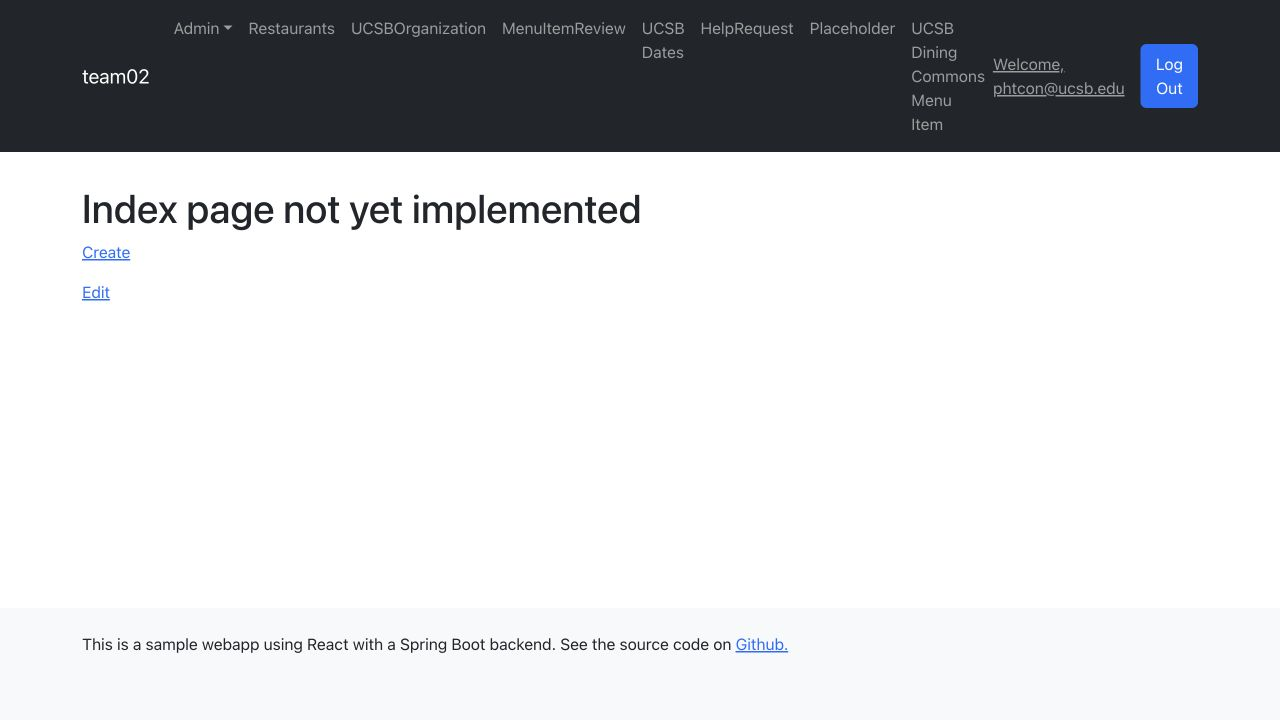
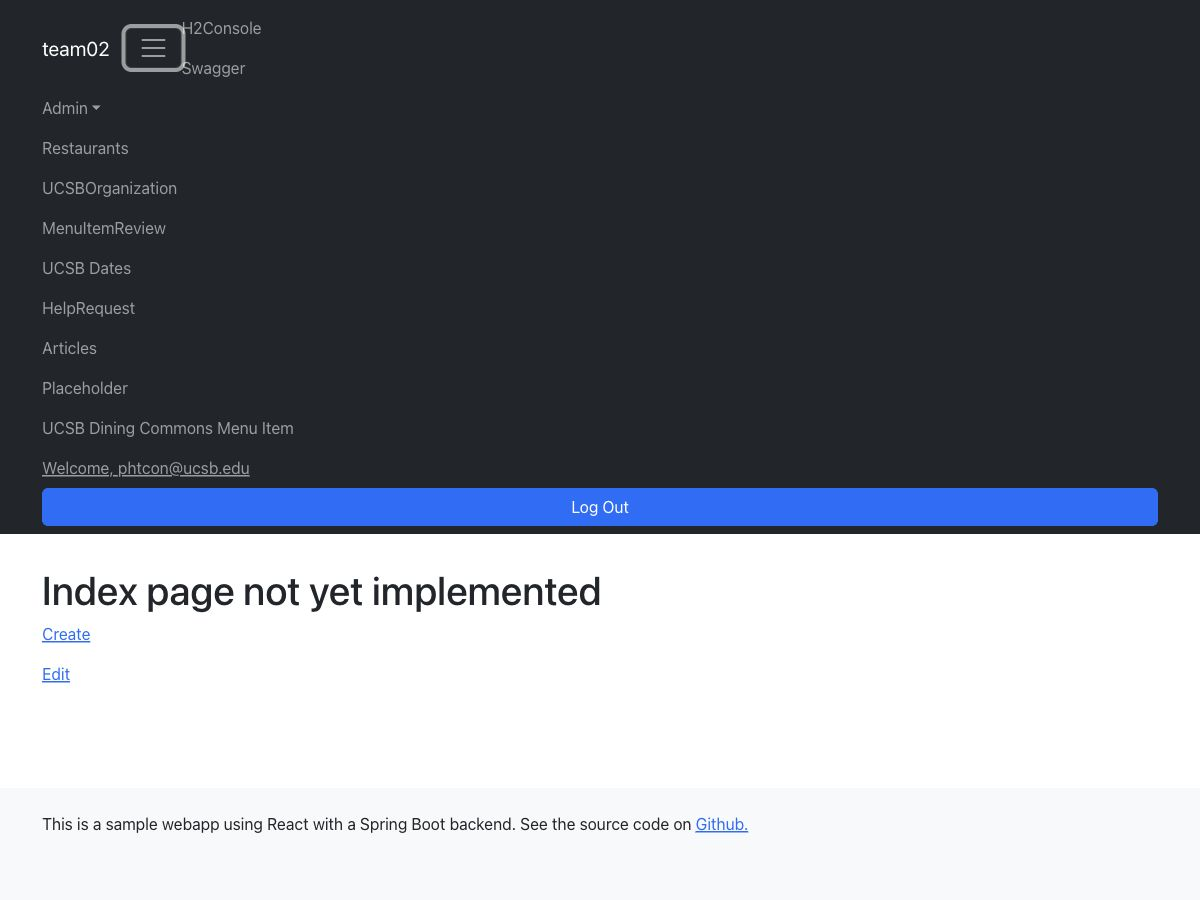
Keep navbar controls visible across screen sizes

diff --git a/frontend/src/main/components/Nav/AppNavbar.jsx b/frontend/src/main/components/Nav/AppNavbar.jsx
@@ -19,7 +19,7 @@ export default function AppNavbar({
       )}
 
       <Navbar
-        expand="xl"
+        expand="xxl"
         variant="dark"
         bg="dark"
         sticky="top"
@@ -49,7 +49,7 @@ export default function AppNavbar({
             {/* be sure that each NavDropdown has a unique id and data-testid  */}
           </>
 
-          <Navbar.Collapse className="justify-content-between">
+          <Navbar.Collapse className="justify-content-between flex-wrap">
             <Nav className="mr-auto">
               {hasRole(currentUser, "ROLE_ADMIN") && (
                 <NavDropdown
